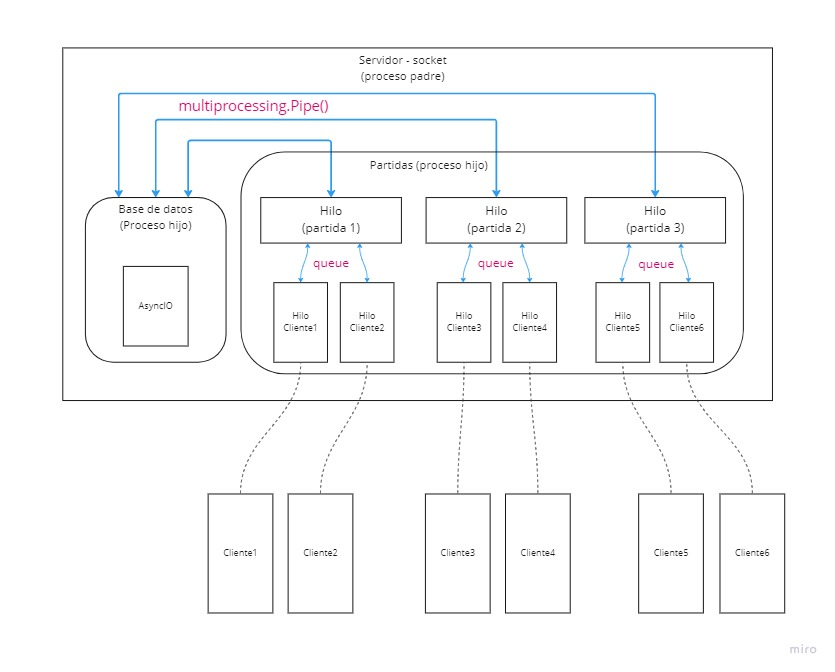
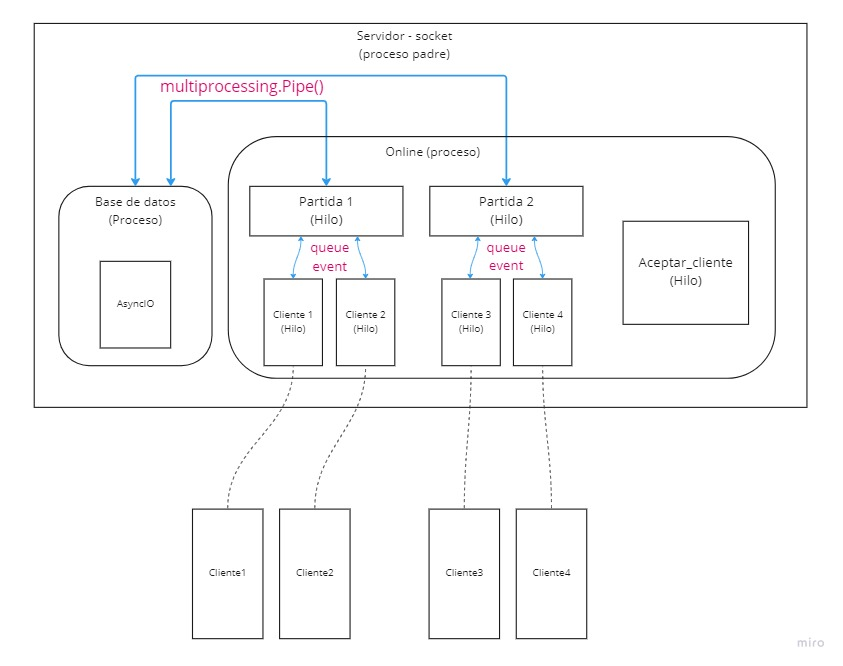
Nuevo grafico y aceptar_cliente con sus hilos en funcionamiento

diff --git a/final/borrador/mi_socket.py b/final/borrador/mi_socket.py
@@ -5,7 +5,7 @@ import socket, threading, os, pickle, multiprocessing, argparse, queue, time
 
 # pickle.loads(msg)  bits -> Normal
 # pickle.dumps(msg)  Normal -> bits
-def conexion(sock, q1):   
+def cliente(sock, q1):   
     print("  Hilo 'Conexion' ID:", threading.get_native_id())
     while True:
         msg1 = sock.recv(10000)      #Recibe bits
@@ -51,6 +51,7 @@ def base_datos():
 
 
 def aceptar_cliente(server):
+    print("  Hilo 'Aceptar_cliente' ID:", threading.get_native_id())
     while True:
         s2,addr = server.accept()
         print("-------------------------------------")
@@ -70,7 +71,7 @@ def aceptar_cliente(server):
             "espera": True,
         }
 
-        threading.Thread(target=conexion, args=(s2, q1)).start()
+        threading.Thread(target=cliente, args=(s2, q1)).start()
 
 
 #! Hilo de partida     
@@ -109,9 +110,6 @@ def online(server):
     
     threading.Thread(target=aceptar_cliente, args=(server,)).start()
 
-    while len(clientes.keys()) < 2: 
-
-        time.sleep(5)
 
     while True:
         jugadores_espera = {}
@@ -121,7 +119,8 @@ def online(server):
                 jugadores_espera[clave] = clientes[clave]
         
         if len(jugadores_espera) >= 2:
-            threading.Thread(target=partida, args=(jugadores_espera,)).start()
+            print("++++++++++++++++++++ Se pudo establecer una partida ++++++++++++++++++++")
+            # threading.Thread(target=partida, args=(jugadores_espera,)).start()
         
         else:
             print("++++++++++++++++++++ Esperando jugador nuevo ++++++++++++++++++++")
